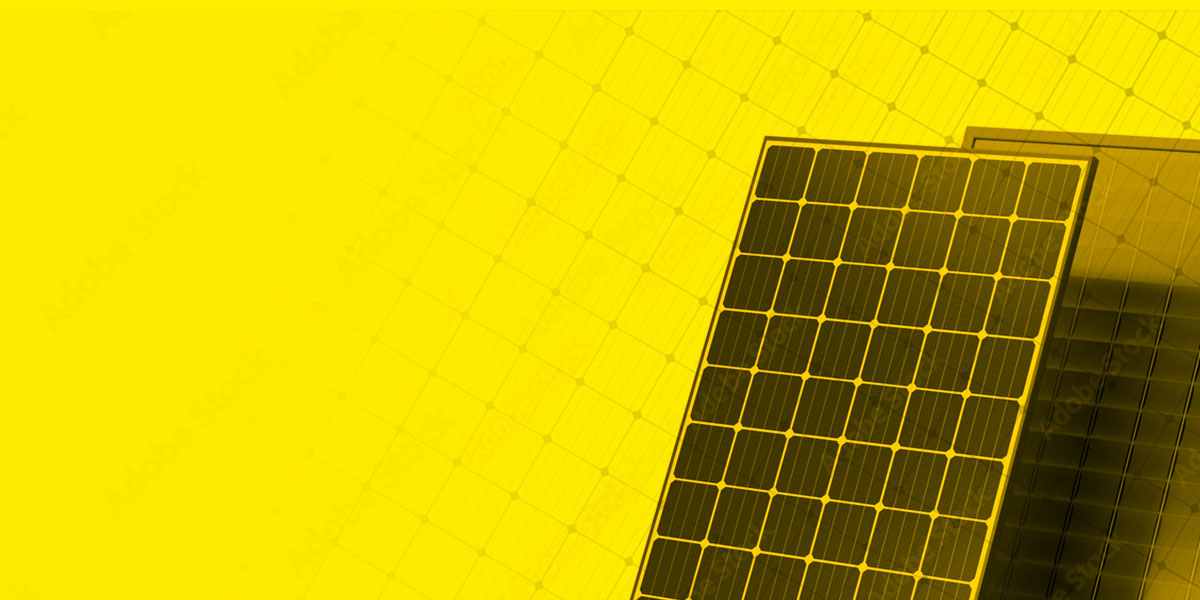
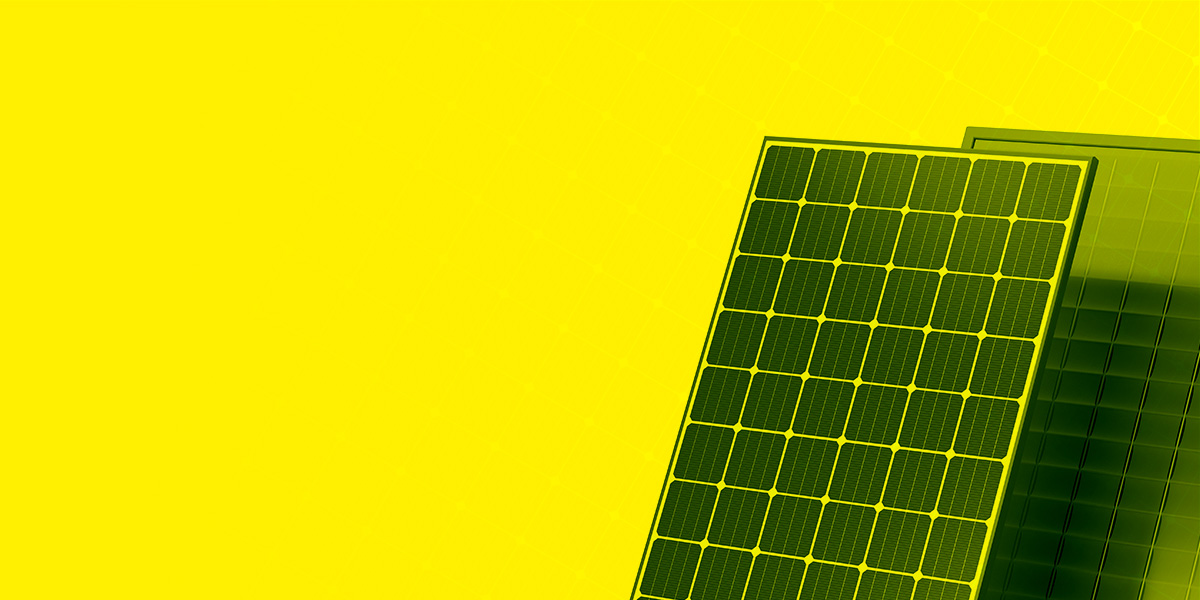
Agg 14 APR

diff --git a/media/templates/site/cassiopeia_home/css/user.css b/media/templates/site/cassiopeia_home/css/user.css
@@ -1098,7 +1098,7 @@ picture.image-cover img {
 
 .target {
   padding: var(--space-3xl) 0;
-  background: url("/images/backgrounds/bg-target-1200.jpg") no-repeat scroll bottom center var(--gray-200);
+  background: url("/images/backgrounds/traliccio/600.jpg") no-repeat scroll bottom center var(--gray-200);
   background-size: contain;
 }
 .target .u-grid {
@@ -1414,6 +1414,9 @@ picture.image-cover img {
   .hero--home-page .hero__title {
     max-width: 60%;
   }
+  .target {
+    background: url("/images/backgrounds/traliccio/1023.jpg") no-repeat scroll bottom center var(--gray-200);
+  }
   .target .card--button {
     -webkit-box-orient: vertical !important;
     -webkit-box-direction: normal !important;
@@ -1466,6 +1469,9 @@ picture.image-cover img {
   }
   .hero--home-page .hero__title {
     max-width: 60%;
+  }
+  .target {
+    background: url("/images/backgrounds/traliccio/1400.jpg") no-repeat scroll bottom left var(--gray-200);
   }
   .pg--home .container-component {
     -ms-grid-column: 2;
@@ -1573,6 +1579,9 @@ picture.image-cover img {
   }
 }
 @media screen and (min-width: 1400px) {
+  .target {
+    background: url("/images/backgrounds/traliccio/2500.jpg") no-repeat scroll bottom left var(--gray-200);
+  }
   .cta__container {
     gap: var(--space-3xl);
   }

diff --git a/media/templates/site/cassiopeia_home/scss/user.scss b/media/templates/site/cassiopeia_home/scss/user.scss
@@ -52,7 +52,7 @@
 .target {
     padding: f.$section-padding-bottom 0;
 
-    background: url("/images/backgrounds/bg-target-1200.jpg") no-repeat scroll bottom center var(--gray-200);
+    background: url("/images/backgrounds/traliccio/600.jpg") no-repeat scroll bottom center var(--gray-200);
     background-size: contain;
 
     // Layout
@@ -395,10 +395,14 @@
     }
 
     // ---> Targets
+    .target {
+        background: url("/images/backgrounds/traliccio/1023.jpg") no-repeat scroll bottom center var(--gray-200);
+    }
     .target .card--button {
         flex-direction: column !important;
         flex: 1 1 0;
         width: 25%;
+
 
         img {
             flex: 1 1 0;
@@ -450,6 +454,11 @@
         }
     }
 
+    // ---> TARGET
+    .target {
+        background: url("/images/backgrounds/traliccio/1400.jpg") no-repeat scroll bottom left var(--gray-200);
+    }
+
     // ---> MAIN CONTENT
     .pg--home {
         .container-component {
@@ -495,6 +504,12 @@
 }
 
 @media screen and (min-width: 1400px) {
+
+    // ---> TARGET
+    .target {
+        background: url("/images/backgrounds/traliccio/2500.jpg") no-repeat scroll bottom left var(--gray-200);
+    }
+
     // ---> CTA Container
     .cta__container {
         gap: var(--space-3xl);

diff --git a/templates/cassiopeia_home/index.php b/templates/cassiopeia_home/index.php
@@ -200,7 +200,7 @@ $wa->getAsset('style', 'fontawesome')->setAttribute('rel', 'lazy-stylesheet');
 		<?php endif; ?>
 
 		<?php if ($this->countModules('top-a', true)) : ?>
-		<div class="grid-child container-top-a full-width target bg--dark">
+		<div id="soluzioni" class="grid-child container-top-a full-width target bg--dark">
 			<div class="u-grid">
 				<jdoc:include type="modules" name="top-a" style="card" />
 			</div>
@@ -230,26 +230,26 @@ $wa->getAsset('style', 'fontawesome')->setAttribute('rel', 'lazy-stylesheet');
 		</div>
 
 		<?php if ($this->countModules('sidebar-right', true)) : ?>
-		<div class="grid-child container-sidebar-right">
+		<div id="vantaggi" class="grid-child container-sidebar-right">
 			<jdoc:include type="modules" name="sidebar-right" style="card" />
 		</div>
 		<?php endif; ?>
 
 		<?php if ($this->countModules('bottom-a', true)) : ?>
-		<div id="ct" class="grid-child container-bottom-a full-width">
+		<div id="calltoaction" class="grid-child container-bottom-a full-width">
 			<jdoc:include type="modules" name="bottom-a" style="card" />
 		</div>
 		<?php endif; ?>
 
 		<?php if ($this->countModules('bottom-b', true)) : ?>
-		<div class="grid-child container-bottom-b full-width">
+		<div id="intervento" class="grid-child container-bottom-b full-width">
 			<div class="u-grid">
 			<jdoc:include type="modules" name="bottom-b" style="card" />
 			</div>
 		</div>
 		<?php endif; ?>
 		<?php if ($this->countModules('bottom-c', true)) : ?>
-		<div class="grid-child container-bottom-c full-width">
+		<div id="contatti" class="grid-child container-bottom-c full-width">
 			<div class="u-grid">
 			<jdoc:include type="modules" name="bottom-c" style="card" />
 			</div>
